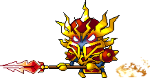
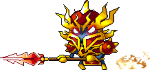
fixed enemy shaking (ceiling collision)

diff --git a/Lab3v3/PlatformWorld.java b/Lab3v3/PlatformWorld.java
@@ -270,7 +270,6 @@ public class PlatformWorld extends World
     
     /**
      * clean up the levels
-     * ||||***Make sure don't forget this while creating new kind of object!!!***|||||
      */
     public void clearLevel(){
         this.removeObjects(this.getObjects(player.class));

diff --git a/Lab3v3/enemy1.java b/Lab3v3/enemy1.java
@@ -34,7 +34,7 @@ public class enemy1 extends AnimatedActor
     
     /** offset of enemy's image*/
     int X_offset = 25;
-    int Y_offset = 40;
+    int Y_offset = 30;
     
     /** screen length*/
     static float minX = 14;
